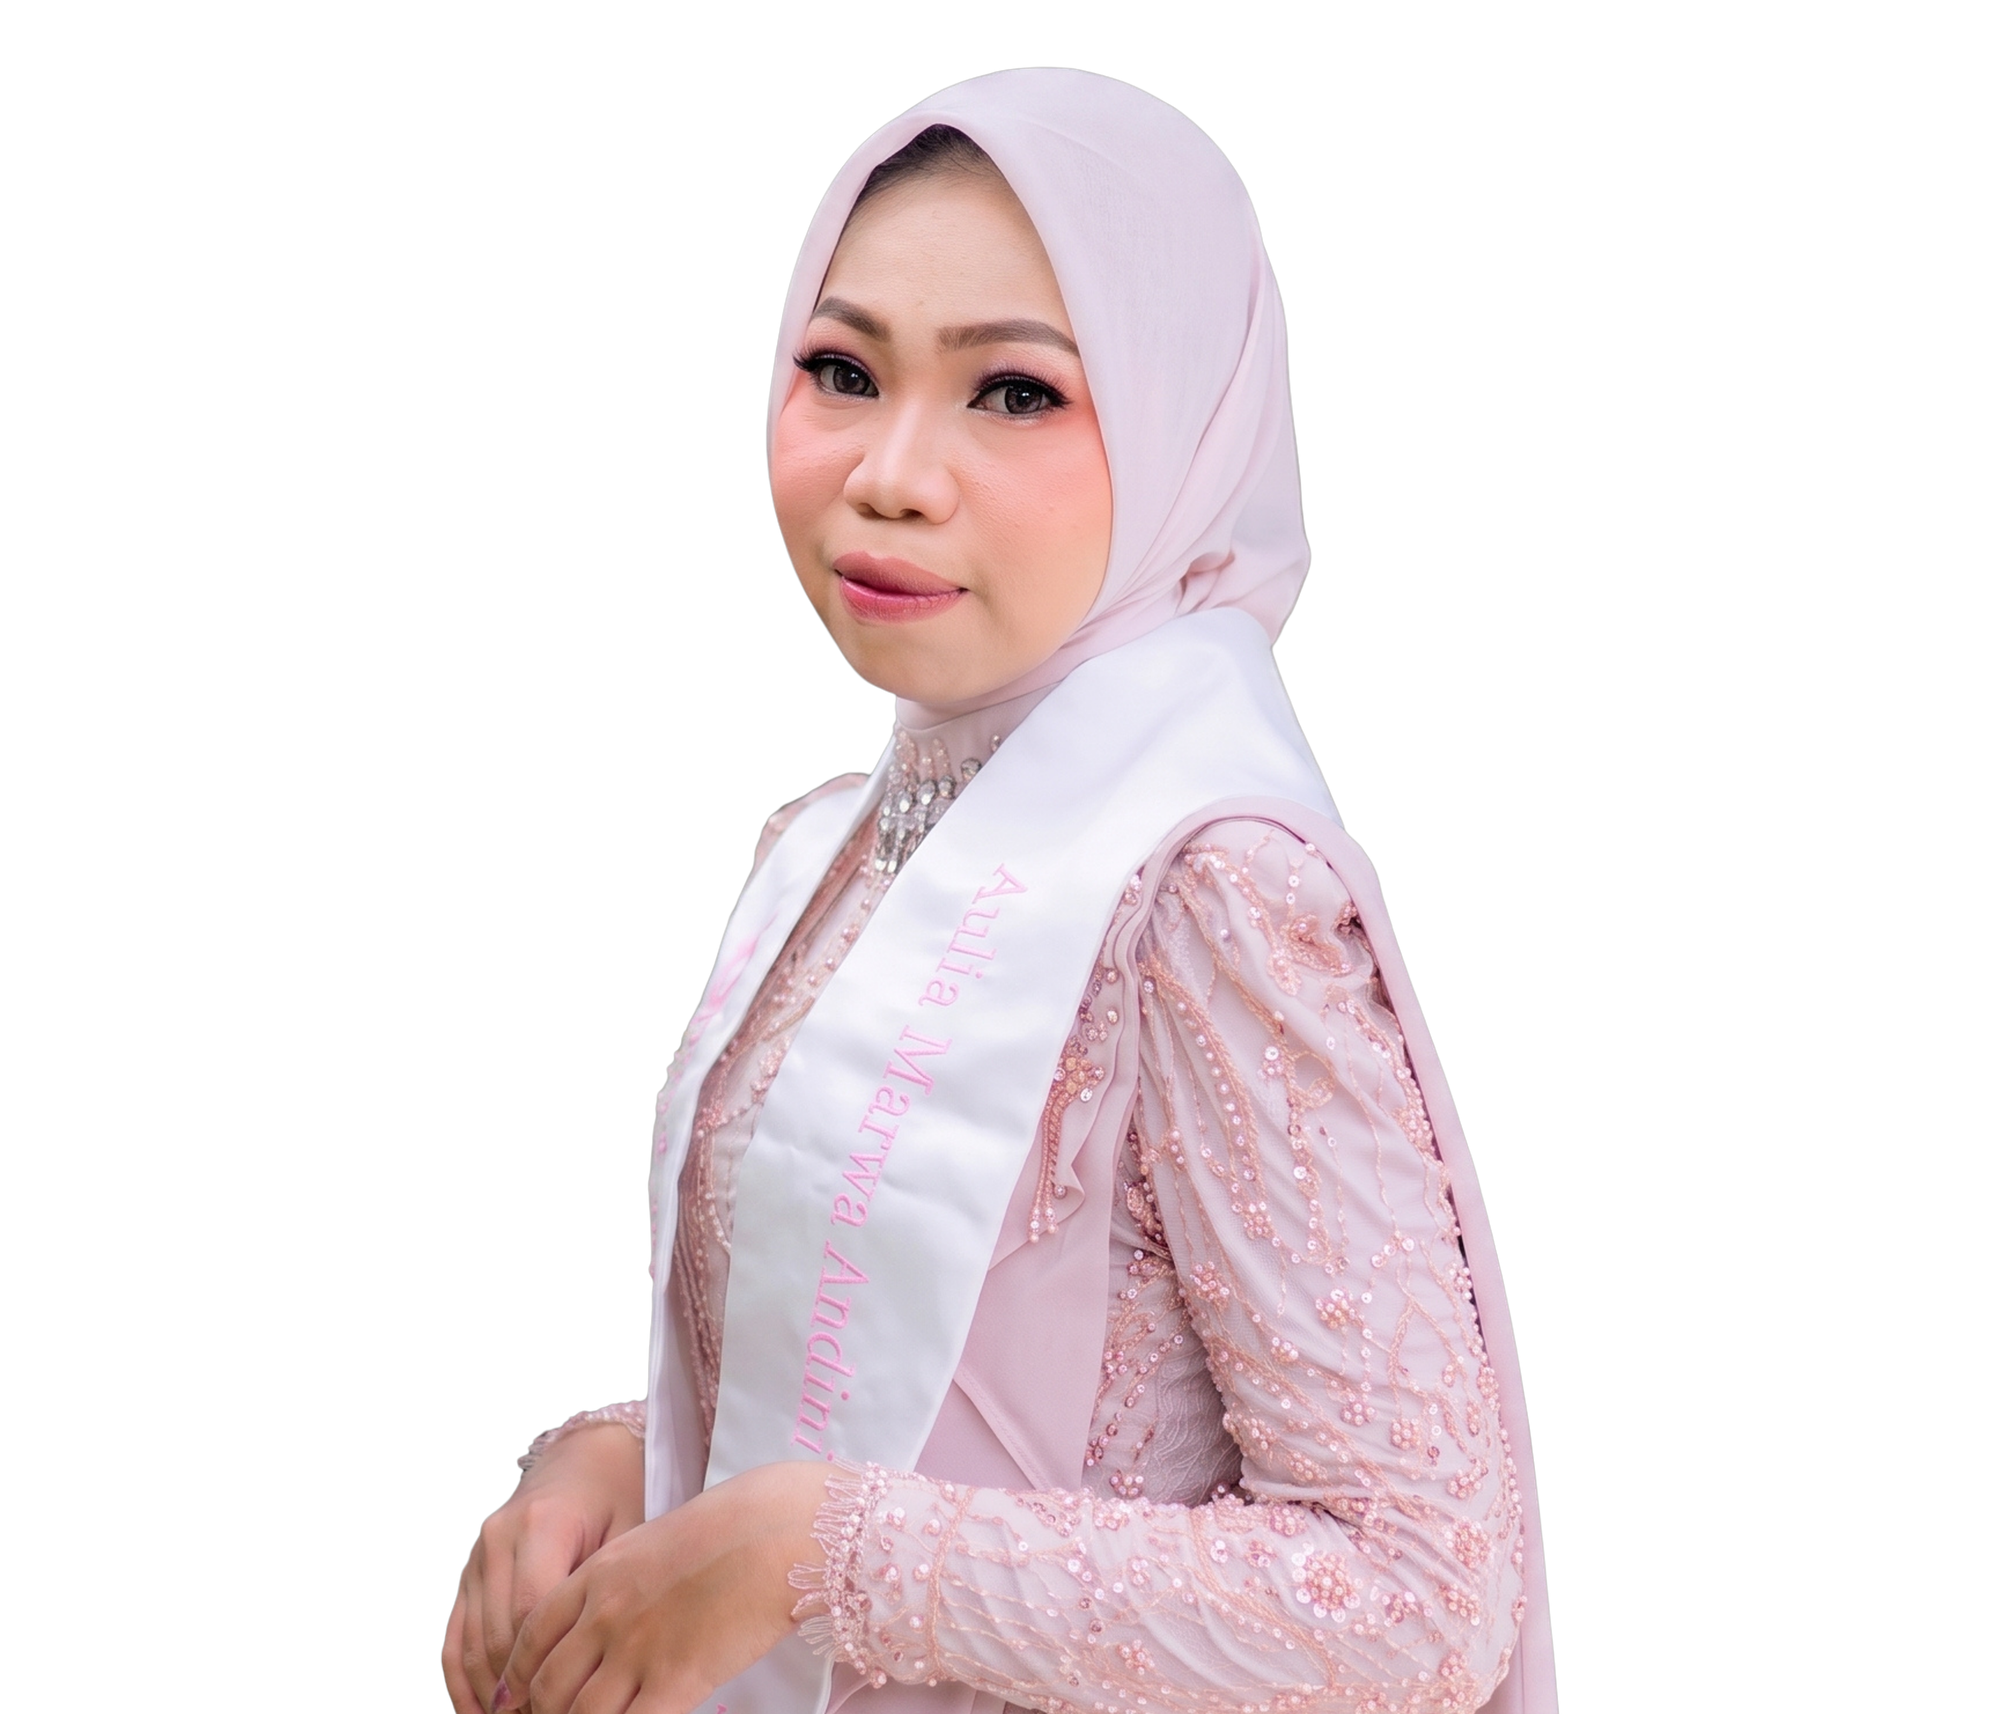
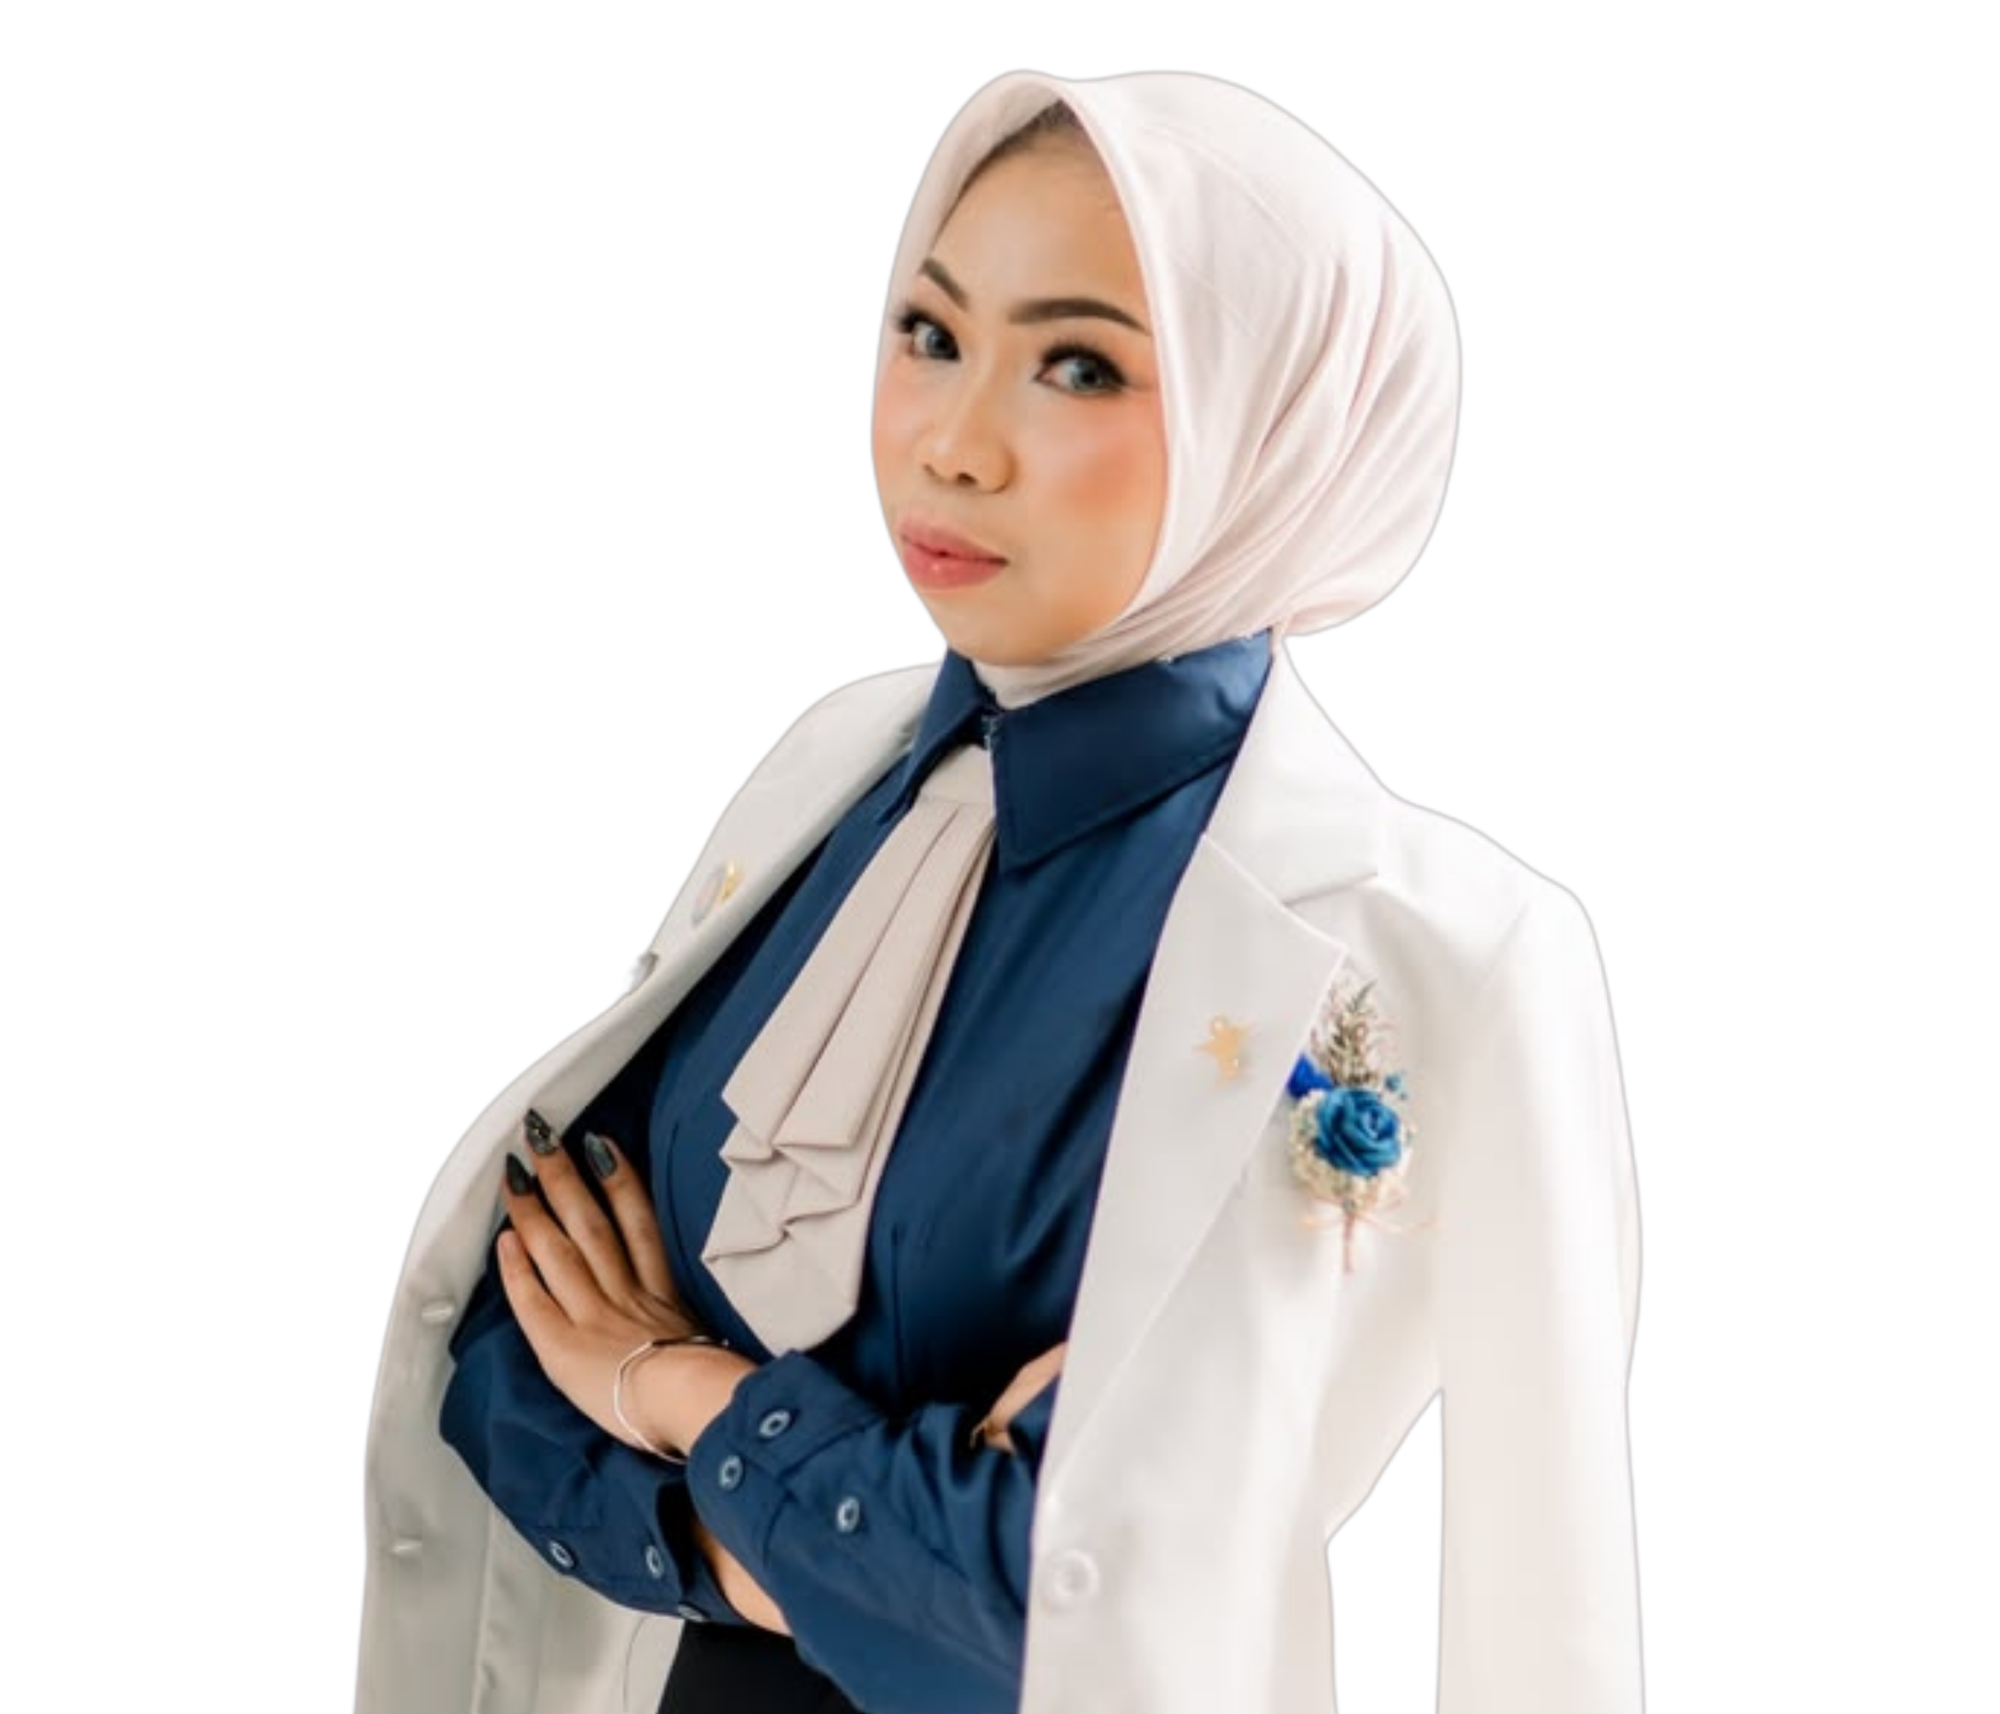
Ganti foto profil hero dan sesuaikan posisi kartu

diff --git a/components/Hero.tsx b/components/Hero.tsx
@@ -52,20 +52,20 @@ export default function Hero() {
       </div>
 
       {/* Sapaan + nama + tagline (kiri) */}
-      <div className="hero-anim absolute left-[4vw] lg:left-[6vw] top-[47%] 2xl:left-auto 2xl:right-1/2 2xl:mr-[272px] 2xl:top-[50%] 2xl:w-[300px] z-20 hidden md:block max-w-[250px] lg:max-w-[300px] pointer-events-none" style={{ '--d': '1000ms' } as React.CSSProperties}>
+      <div className="hero-anim absolute left-[4vw] lg:left-[6vw] top-[47%] 2xl:left-auto 2xl:right-1/2 2xl:mr-[305px] 2xl:top-[50%] 2xl:w-[300px] z-20 hidden md:block max-w-[250px] lg:max-w-[300px] pointer-events-none" style={{ '--d': '1000ms' } as React.CSSProperties}>
         <p className="font-script text-3xl lg:text-4xl font-bold text-emerald-600 dark:text-emerald-400 -rotate-3 leading-none mb-1">{t('hero.hey')}</p>
         <h1 className="text-2xl lg:text-4xl font-bold tracking-tight text-[var(--foreground)] leading-[1.05]">Aulia Marwa</h1>
         <p className="mt-3 text-xs lg:text-[13px] leading-relaxed text-[var(--muted)]">{t('hero.tagline')}</p>
       </div>
 
       {/* Keterangan kecil kiri-bawah */}
-      <div className="hero-anim absolute left-[4vw] lg:left-[6vw] bottom-8 2xl:left-auto 2xl:right-1/2 2xl:mr-[272px] 2xl:w-[300px] z-20 hidden md:block pointer-events-none text-[9px] lg:text-[10px] tracking-[0.2em] font-semibold uppercase text-[var(--muted)] leading-relaxed" style={{ '--d': '1200ms' } as React.CSSProperties}>
+      <div className="hero-anim absolute left-[4vw] lg:left-[6vw] bottom-8 2xl:left-auto 2xl:right-1/2 2xl:mr-[305px] 2xl:w-[300px] z-20 hidden md:block pointer-events-none text-[9px] lg:text-[10px] tracking-[0.2em] font-semibold uppercase text-[var(--muted)] leading-relaxed" style={{ '--d': '1200ms' } as React.CSSProperties}>
         <p>{t('hero.based1')}</p>
         <p>{t('hero.based2')}</p>
       </div>
 
       {/* Kartu peran + tombol (kanan-bawah) */}
-      <div className="absolute right-[3vw] lg:right-[5vw] bottom-8 xl:right-0 xl:left-[calc(50%+0.327*min(82vh,651px))] xl:-translate-x-6 z-20 hidden md:flex flex-col items-center">
+      <div className="absolute right-[3vw] lg:right-[5vw] bottom-8 xl:right-0 xl:left-[calc(50%+0.378*min(82vh,651px))] xl:-translate-x-6 z-20 hidden md:flex flex-col items-center">
         {/* kartu putih (tetap putih di mode terang maupun gelap). Di xl+: kolom dari lengan kanan foto (setengah lebar badan = 0,339 x tinggi foto yang tampil, tinggi dibatasi min(82vh, 651px)) sampai tepi kanan layar; kartu di tengahnya */}
         <div className="hero-anim w-[250px] lg:w-[270px] rounded-3xl border border-zinc-200 bg-white px-5 py-4 text-center shadow-[0_14px_34px_-14px_rgba(0,0,0,0.35)] pointer-events-none" style={{ '--d': '1350ms' } as React.CSSProperties}>
           <p className="text-base lg:text-lg font-bold leading-snug text-emerald-600">{t('hero.role1')}</p>
